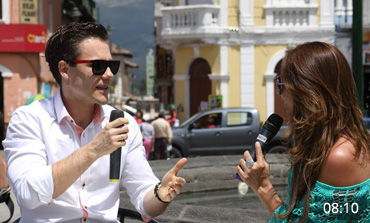
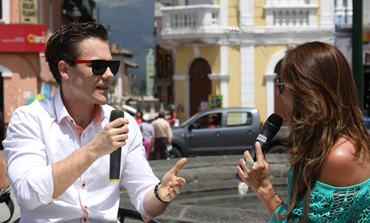
change

Changed region(s): [[0.8324, 0.861, 1.0, 0.9955]]

diff --git a/assets/css/style.css b/assets/css/style.css
@@ -347,8 +347,22 @@ header.navbar-default {
 	margin-bottom:25px;
 	}
 	
+	#video .img{
+		position:relative;
+	}
+		#video .img span{
+			background: rgba(0,0,0,0.3);
+			position:absolute;
+			padding:2px 5px;
+			font-size:12px;
+			right:0;
+			bottom:0;
+			color:#fff;
+		}
+	
 	#video .row .desc,
 	#video .row .desc a{
+		text-decoration:none;
 		margin-top:15px;
 		color:#595959;
 		}
@@ -368,7 +382,7 @@ header.navbar-default {
 	[7. Dream Body]
 ------------------------------------------------------------------*/
 
-#dramBody{
+#dreamBody{
 	background: rgb(188,103,100); /* Old browsers */
 	/* IE9 SVG, needs conditional override of 'filter' to 'none' */
[1 lines of base64/hex data omitted]
@@ -385,6 +399,16 @@ header.navbar-default {
 	margin-top:80px;
 }
 
+#dreamBody:before{
+	content:" ";
+	background:url(../img/bgBoxTop.png) no-repeat bottom center;
+	background-size:cover;
+	position:absolute;
+	width:100%;
+	height: 60px;
+	top: 0px;
+}
+
 .mateusz1{
 	background:url(../img/mateusz/mateusz1.png) no-repeat top center;
 	width:478px;
@@ -394,16 +418,57 @@ header.navbar-default {
 	top:-100px;
 }
 
-#dramBody:before{
-	content:" ";
-	background:url(../img/bgBoxTop.png) no-repeat bottom center;
-	background-size:cover;
-	position:absolute;
-	width:100%;
-	height: 60px;
-	top: 0px;
+#dreamBody .info{
+	position:relative;
+	width:20%;
+	color:#fff;
+	font-size:12px;
+	margin-top:10%;
+	margin-left:35%;
 }
+
+	#dreamBody .info h4{
+		font-size:20px;
+		margin-bottom:20px;
+	}
 	
+	#dreamBody .buttonMore{
+		background: rgb(64,64,65); /* Old browsers */
+		/* IE9 SVG, needs conditional override of 'filter' to 'none' */
[1 lines of base64/hex data omitted]
+		background: -moz-linear-gradient(top,  rgba(64,64,65,1) 0%, rgba(53,53,54,1) 100%); /* FF3.6+ */
+		background: -webkit-gradient(linear, left top, left bottom, color-stop(0%,rgba(64,64,65,1)), color-stop(100%,rgba(53,53,54,1))); /* Chrome,Safari4+ */
+		background: -webkit-linear-gradient(top,  rgba(64,64,65,1) 0%,rgba(53,53,54,1) 100%); /* Chrome10+,Safari5.1+ */
+		background: -o-linear-gradient(top,  rgba(64,64,65,1) 0%,rgba(53,53,54,1) 100%); /* Opera 11.10+ */
+		background: -ms-linear-gradient(top,  rgba(64,64,65,1) 0%,rgba(53,53,54,1) 100%); /* IE10+ */
+		background: linear-gradient(to bottom,  rgba(64,64,65,1) 0%,rgba(53,53,54,1) 100%); /* W3C */
+		filter: progid:DXImageTransform.Microsoft.gradient( startColorstr='#404041', endColorstr='#353536',GradientType=0 ); /* IE6-8 */
+		font-size:12px;
+		display:block;
+		color:#fff;
+		text-align:center;
+		padding:15px;
+		margin-top:15px;
+	}
+	
+	#dreamBody .dream{
+		float:left;
+		margin-left:-120px;
+	}
+	
+/* Background */
+#dreamBody.gold{
+	background: rgb(213,193,127); /* Old browsers */
+	/* IE9 SVG, needs conditional override of 'filter' to 'none' */
[1 lines of base64/hex data omitted]
+	background: -moz-linear-gradient(left,  rgba(213,193,127,1) 0%, rgba(224,216,188,1) 100%); /* FF3.6+ */
+	background: -webkit-gradient(linear, left top, right top, color-stop(0%,rgba(213,193,127,1)), color-stop(100%,rgba(224,216,188,1))); /* Chrome,Safari4+ */
+	background: -webkit-linear-gradient(left,  rgba(213,193,127,1) 0%,rgba(224,216,188,1) 100%); /* Chrome10+,Safari5.1+ */
+	background: -o-linear-gradient(left,  rgba(213,193,127,1) 0%,rgba(224,216,188,1) 100%); /* Opera 11.10+ */
+	background: -ms-linear-gradient(left,  rgba(213,193,127,1) 0%,rgba(224,216,188,1) 100%); /* IE10+ */
+	background: linear-gradient(to right,  rgba(213,193,127,1) 0%,rgba(224,216,188,1) 100%); /* W3C */
+	filter: progid:DXImageTransform.Microsoft.gradient( startColorstr='#d5c17f', endColorstr='#e0d8bc',GradientType=1 ); /* IE6-8 */	
+}
 
 
 /*------------------------------------------------------------------

diff --git a/kategoria.html b/kategoria.html
@@ -94,47 +94,92 @@ License: Custom
 		
 		<ul class="row list-unstyled">
 			<li class="col-md-4 col-sm-6 col-xs-12 space-mobile">
-				<img src="assets/img/video/video1.jpg" class="img-responsive" alt="">
+				<div class="img">
+					<a href="#">
+						<img src="assets/img/video/video1.jpg" class="img-responsive" alt="">
+						<span class="time">12:12</span>
+					</a>
+				</div>
 				<div class="desc"><strong>Z tego materiału dowiesz się dlaczego</strong> jest tak Lorem ipsum dolor sit amet, consectetur adipiscing</div>
 				<div class="date">05.07.2014</div>
 			</li>
 			<li class="col-md-4 col-sm-6 col-xs-12 space-mobile">
-				<img src="assets/img/video/video2.jpg" class="img-responsive" alt="">
+				<div class="img">
+					<a href="#">
+						<img src="assets/img/video/video2.jpg" class="img-responsive" alt="">
+						<span class="time">12:12</span>
+					</a>
+				</div>
 				<div class="desc"><strong>Z tego materiału dowiesz się dlaczego</strong> jest tak Lorem ipsum dolor sit amet, consectetur adipiscing</div>
 				<div class="date">05.07.2014</div>
 			</li>
 			<li class="col-md-4 col-sm-6 col-xs-12 space-mobile">
-				<img src="assets/img/video/video3.jpg" class="img-responsive" alt="">
+				<div class="img">
+					<a href="#">
+						<img src="assets/img/video/video3.jpg" class="img-responsive" alt="">
+						<span class="time">12:12</span>
+					</a>
+				</div>
 				<div class="desc"><strong>Z tego materiału dowiesz się dlaczego</strong> jest tak Lorem ipsum dolor sit amet, consectetur adipiscing</div>
 				<div class="date">05.07.2014</div>
 			</li>
 			<li class="col-md-4 col-sm-6 col-xs-12 space-mobile">
-				<img src="assets/img/video/video4.jpg" class="img-responsive" alt="">
+				<div class="img">
+					<a href="#">
+						<img src="assets/img/video/video4.jpg" class="img-responsive" alt="">
+						<span class="time">12:12</span>
+					</a>
+				</div>
 				<div class="desc"><strong>Z tego materiału dowiesz się dlaczego</strong> jest tak Lorem ipsum dolor sit amet, consectetur adipiscing</div>
 				<div class="date">05.07.2014</div>
 			</li>
 			<li class="col-md-4 col-sm-6 col-xs-12 space-mobile">
-				<img src="assets/img/video/video5.jpg" class="img-responsive" alt="">
+				<div class="img">
+					<a href="#">
+						<img src="assets/img/video/video5.jpg" class="img-responsive" alt="">
+						<span class="time">12:12</span>
+					</a>
+				</div>
 				<div class="desc"><strong>Z tego materiału dowiesz się dlaczego</strong> jest tak Lorem ipsum dolor sit amet, consectetur adipiscing</div>
 				<div class="date">05.07.2014</div>
 			</li>
 			<li class="col-md-4 col-sm-6 col-xs-12 space-mobile">
-				<img src="assets/img/video/video6.jpg" class="img-responsive" alt="">
+				<div class="img">
+					<a href="#">
+						<img src="assets/img/video/video6.jpg" class="img-responsive" alt="">
+						<span class="time">12:12</span>
+					</a>
+				</div>
 				<div class="desc"><strong>Z tego materiału dowiesz się dlaczego</strong> jest tak Lorem ipsum dolor sit amet, consectetur adipiscing</div>
 				<div class="date">05.07.2014</div>
 			</li>
 			<li class="col-md-4 col-sm-6 col-xs-12 space-mobile">
-				<img src="assets/img/video/video7.jpg" class="img-responsive" alt="">
+				<div class="img">
+					<a href="#">
+						<img src="assets/img/video/video7.jpg" class="img-responsive" alt="">
+						<span class="time">12:12</span>
+					</a>
+				</div>
 				<div class="desc"><strong>Z tego materiału dowiesz się dlaczego</strong> jest tak Lorem ipsum dolor sit amet, consectetur adipiscing</div>
 				<div class="date">05.07.2014</div>
 			</li>
 			<li class="col-md-4 col-sm-6 col-xs-12 space-mobile">
-				<img src="assets/img/video/video8.jpg" class="img-responsive" alt="">
+				<div class="img">
+					<a href="#">
+						<img src="assets/img/video/video8.jpg" class="img-responsive" alt="">
+						<span class="time">12:12</span>
+					</a>
+				</div>
 				<div class="desc"><strong>Z tego materiału dowiesz się dlaczego</strong> jest tak Lorem ipsum dolor sit amet, consectetur adipiscing</div>
 				<div class="date">05.07.2014</div>
 			</li>
 			<li class="col-md-4 col-sm-6 col-xs-12 space-mobile">
-				<img src="assets/img/video/video9.jpg" class="img-responsive" alt="">
+				<div class="img">
+					<a href="#">
+						<img src="assets/img/video/video9.jpg" class="img-responsive" alt="">
+						<span class="time">12:12</span>
+					</a>
+				</div>
 				<div class="desc"><strong>Z tego materiału dowiesz się dlaczego</strong> jest tak Lorem ipsum dolor sit amet, consectetur adipiscing</div>
 				<div class="date">05.07.2014</div>
 			</li>
@@ -146,10 +191,15 @@ License: Custom
 
 
 <!-- BEGIN Dream Body -->
-<section id="dramBody">
+<section id="dreamBody" class="gold">
 	<div class="mateusz1"></div>
 	<div class="container">
-	
+		<div class="info">
+			<img src="assets/img/dream.png" class="dream" alt="">
+			<h4>Dream Body</h4>
+			<p><strong>Czy wiedziałeś, że tylko 2% Ciebie w pełni decyduje o jakości Twojego życia?</strong> Konstruktywne myślenie, skuteczna komunikacja,</p>
+			<a href="#" class="buttonMore"><strong>SPRWADŹ</strong> SZCZEGÓŁY</a>
+		</div>
 	</div>
 </section>
 <!-- END Dream Body -->

diff --git a/index.html b/index.html
@@ -145,33 +145,63 @@ License: Custom
 		
 		<ul class="row list-unstyled">
 			<li class="col-md-4 col-sm-6 col-xs-12 space-mobile">
-				<img src="assets/img/video/video1.jpg" class="img-responsive" alt="">
-				<div class="desc"><strong>Z tego materiału dowiesz się dlaczego</strong> jest tak Lorem ipsum dolor sit amet, consectetur adipiscing</div>
+				<div class="img">
+					<a href="#">
+						<img src="assets/img/video/video1.jpg" class="img-responsive" alt="">
+						<span class="time">12:12</span>
+					</a>
+				</div>
+				<div class="desc"><a href="#"><strong>Z tego materiału dowiesz się dlaczego</strong> jest tak Lorem ipsum dolor sit amet, consectetur adipiscing</a></div>
 				<div class="date">05.07.2014</div>
 			</li>
 			<li class="col-md-4 col-sm-6 col-xs-12 space-mobile">
-				<img src="assets/img/video/video2.jpg" class="img-responsive" alt="">
-				<div class="desc"><strong>Z tego materiału dowiesz się dlaczego</strong> jest tak Lorem ipsum dolor sit amet, consectetur adipiscing</div>
+				<div class="img">
+					<a href="#">
+						<img src="assets/img/video/video2.jpg" class="img-responsive" alt="">
+						<span class="time">12:12</span>
+					</a>
+				</div>
+				<div class="desc"><a href="#"><strong>Z tego materiału dowiesz się dlaczego</strong> jest tak Lorem ipsum dolor sit amet, consectetur adipiscing</a></div>
 				<div class="date">05.07.2014</div>
 			</li>
 			<li class="col-md-4 col-sm-6 col-xs-12 space-mobile">
-				<img src="assets/img/video/video3.jpg" class="img-responsive" alt="">
-				<div class="desc"><strong>Z tego materiału dowiesz się dlaczego</strong> jest tak Lorem ipsum dolor sit amet, consectetur adipiscing</div>
+				<div class="img">
+					<a href="#">
+						<img src="assets/img/video/video3.jpg" class="img-responsive" alt="">
+						<span class="time">12:12</span>
+					</a>
+				</div>
+				<div class="desc"><a href="#"><strong>Z tego materiału dowiesz się dlaczego</strong> jest tak Lorem ipsum dolor sit amet, consectetur adipiscing</a></div>
 				<div class="date">05.07.2014</div>
 			</li>
 			<li class="col-md-4 col-sm-6 col-xs-12 space-mobile">
-				<img src="assets/img/video/video4.jpg" class="img-responsive" alt="">
-				<div class="desc"><strong>Z tego materiału dowiesz się dlaczego</strong> jest tak Lorem ipsum dolor sit amet, consectetur adipiscing</div>
+				<div class="img">
+					<a href="#">
+						<img src="assets/img/video/video4.jpg" class="img-responsive" alt="">
+						<span class="time">12:12</span>
+					</a>
+				</div>
+				<div class="desc"><a href="#"><strong>Z tego materiału dowiesz się dlaczego</strong> jest tak Lorem ipsum dolor sit amet, consectetur adipiscing</a></div>
 				<div class="date">05.07.2014</div>
 			</li>
 			<li class="col-md-4 col-sm-6 col-xs-12 space-mobile">
-				<img src="assets/img/video/video5.jpg" class="img-responsive" alt="">
-				<div class="desc"><strong>Z tego materiału dowiesz się dlaczego</strong> jest tak Lorem ipsum dolor sit amet, consectetur adipiscing</div>
+				<div class="img">
+					<a href="#">
+						<img src="assets/img/video/video5.jpg" class="img-responsive" alt="">
+						<span class="time">12:12</span>
+					</a>
+				</div>
+				<div class="desc"><a href="#"><strong>Z tego materiału dowiesz się dlaczego</strong> jest tak Lorem ipsum dolor sit amet, consectetur adipiscing</a></div>
 				<div class="date">05.07.2014</div>
 			</li>
 			<li class="col-md-4 col-sm-6 col-xs-12 space-mobile">
-				<img src="assets/img/video/video6.jpg" class="img-responsive" alt="">
-				<div class="desc"><strong>Z tego materiału dowiesz się dlaczego</strong> jest tak Lorem ipsum dolor sit amet, consectetur adipiscing</div>
+				<div class="img">
+					<a href="#">
+						<img src="assets/img/video/video6.jpg" class="img-responsive" alt="">
+						<span class="time">12:12</span>
+					</a>
+				</div>
+				<div class="desc"><a href="#"><strong>Z tego materiału dowiesz się dlaczego</strong> jest tak Lorem ipsum dolor sit amet, consectetur adipiscing</a></div>
 				<div class="date">05.07.2014</div>
 			</li>
 		</ul>
@@ -182,10 +212,15 @@ License: Custom
 
 
 <!-- BEGIN Dream Body -->
-<section id="dramBody">
+<section id="dreamBody">
 	<div class="mateusz1"></div>
 	<div class="container">
-	
+		<div class="info">
+			<img src="assets/img/dream.png" class="dream" alt="">
+			<h4>Dream Body</h4>
+			<p><strong>Czy wiedziałeś, że tylko 2% Ciebie w pełni decyduje o jakości Twojego życia?</strong> Konstruktywne myślenie, skuteczna komunikacja,</p>
+			<a href="#" class="buttonMore"><strong>SPRWADŹ</strong> SZCZEGÓŁY</a>
+		</div>
 	</div>
 </section>
 <!-- END Dream Body -->

diff --git a/film.html b/film.html
@@ -94,17 +94,32 @@ License: Custom
 		
 		<ul class="row list-unstyled">
 			<li class="col-md-4 col-sm-6 col-xs-12 space-mobile">
-				<img src="assets/img/video/video1.jpg" class="img-responsive" alt="">
+				<div class="img">
+					<a href="#">
+						<img src="assets/img/video/video1.jpg" class="img-responsive" alt="">
+						<span class="time">12:12</span>
+					</a>
+				</div>
 				<div class="desc"><strong>Z tego materiału dowiesz się dlaczego</strong> jest tak Lorem ipsum dolor sit amet, consectetur adipiscing</div>
 				<div class="date">05.07.2014</div>
 			</li>
 			<li class="col-md-4 col-sm-6 col-xs-12 space-mobile">
-				<img src="assets/img/video/video2.jpg" class="img-responsive" alt="">
+				<div class="img">
+					<a href="#">
+						<img src="assets/img/video/video2.jpg" class="img-responsive" alt="">
+						<span class="time">12:12</span>
+					</a>
+				</div>
 				<div class="desc"><strong>Z tego materiału dowiesz się dlaczego</strong> jest tak Lorem ipsum dolor sit amet, consectetur adipiscing</div>
 				<div class="date">05.07.2014</div>
 			</li>
 			<li class="col-md-4 col-sm-6 col-xs-12 space-mobile">
-				<img src="assets/img/video/video3.jpg" class="img-responsive" alt="">
+				<div class="img">
+					<a href="#">
+						<img src="assets/img/video/video3.jpg" class="img-responsive" alt="">
+						<span class="time">12:12</span>
+					</a>
+				</div>
 				<div class="desc"><strong>Z tego materiału dowiesz się dlaczego</strong> jest tak Lorem ipsum dolor sit amet, consectetur adipiscing</div>
 				<div class="date">05.07.2014</div>
 			</li>
@@ -116,7 +131,7 @@ License: Custom
 
 
 <!-- BEGIN Dream Body -->
-<section id="dramBody">
+<section id="dreamBody">
 	<div class="mateusz1"></div>
 	<div class="container">
 	

diff --git a/vlog.html b/vlog.html
@@ -109,7 +109,7 @@ License: Custom
 
 
 <!-- BEGIN Dream Body -->
-<section id="dramBody">
+<section id="dreamBody">
 	<div class="mateusz1"></div>
 	<div class="container">
 	
